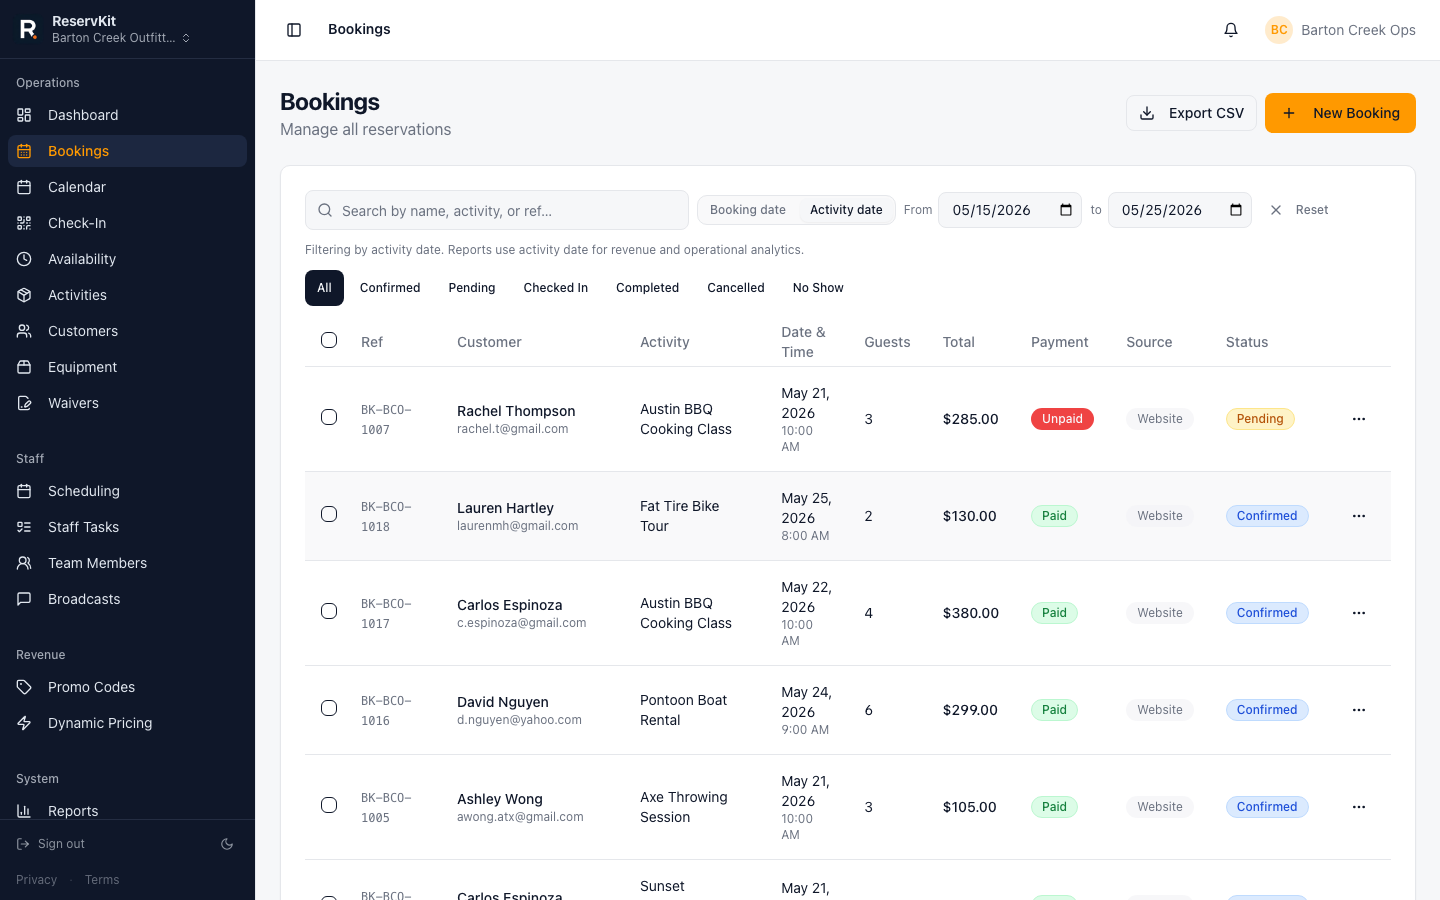
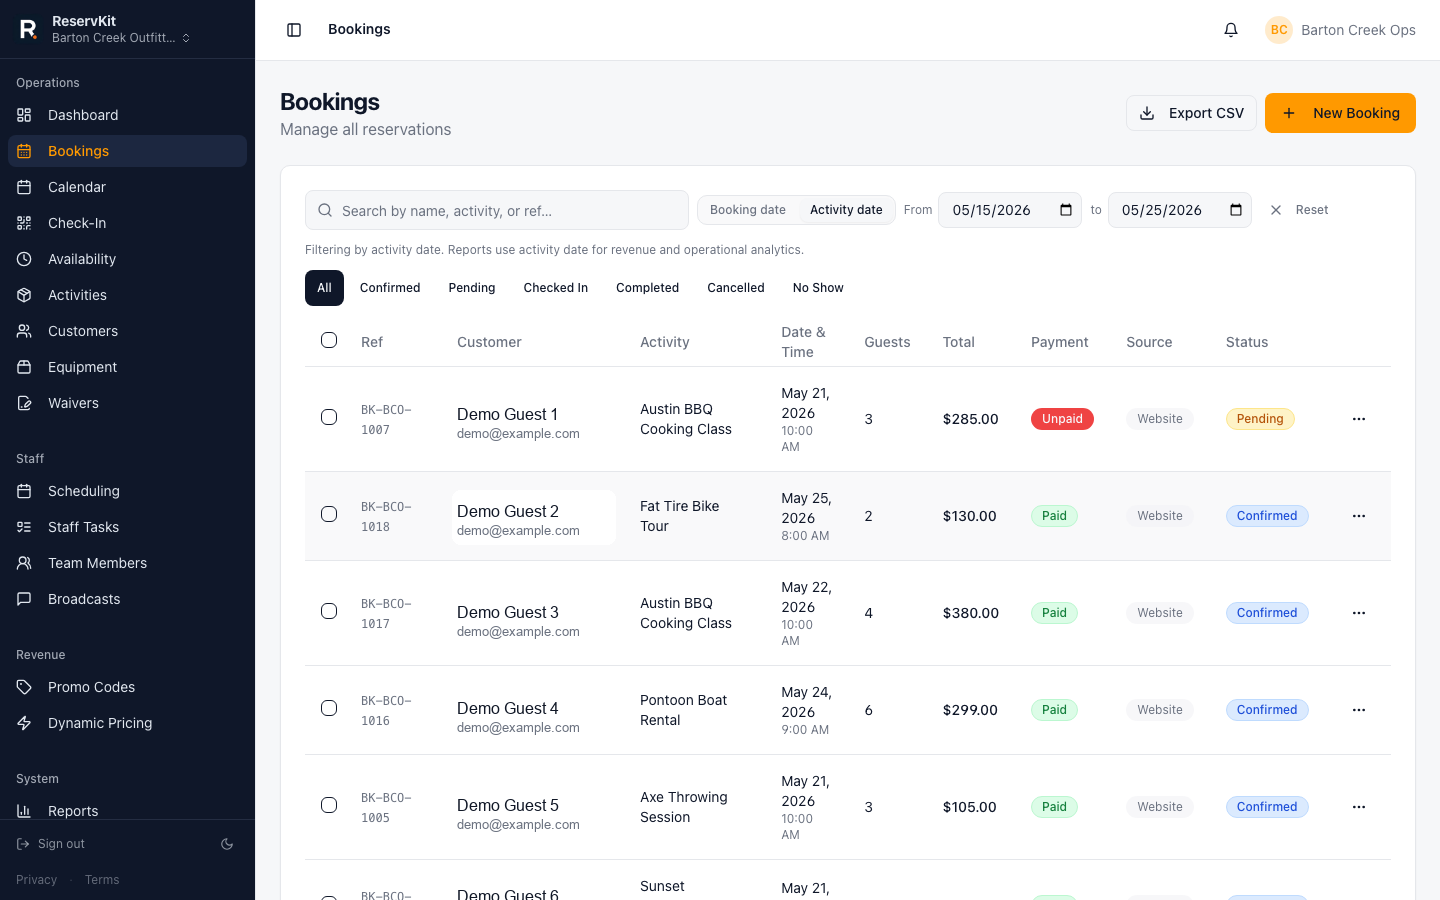
Polish marketing product media privacy

diff --git a/docs/PRODUCT_MEDIA_AUDIT_2026-07-25.md b/docs/PRODUCT_MEDIA_AUDIT_2026-07-25.md
@@ -8,12 +8,14 @@ Purpose: keep the public marketing site honest about product screenshots before 
 - The public booking, Activities, Bookings, Check-In, Waivers, and Reports captures are usable as representative product proof, but they should not be described as always-current live screenshots.
 - Homepage copy now says the screenshots are real ReservKit screens from configured workflows and representative operator screens.
 - `public/product-reports.png` was replaced on 2026-07-25 with a current cropped Reports workspace capture that removes support-only navigation and avoids customer-identifying table data.
+- `public/product-bookings-dashboard.png` and `public/product-checkin-manifest.png` were privacy-polished on 2026-08-02 after a batch review found realistic-looking customer names, emails, and phone numbers in the old captures. The visible rows now use demo guest/contact text only.
 
 ## Findings
 
 - `public/product-public-booking-live.png` shows a real public booking flow with configured activities. It is acceptable as a representative customer-flow screenshot.
-- `public/product-activities.png`, `public/product-bookings-dashboard.png`, `public/product-checkin-manifest.png`, and `public/product-waiver-status.png` show real operator UI and are acceptable for the current pre-launch site.
+- `public/product-activities.png`, `public/product-bookings-dashboard.png`, `public/product-checkin-manifest.png`, and `public/product-waiver-status.png` show real operator UI and are acceptable for the current public-signup site. Bookings and Check-In are privacy-polished with demo guest/contact values.
 - `public/product-reports.png` now shows the current Reports Overview tab, customer-tip separation, booking-fee language, activity-date window copy, and booking-income chart without exposing the support-only sidebar.
+- A fresh production Safari check against `ReservKit Test Org` confirmed the current Activities route is materially newer than the May Activities capture, but the live Test Org screen is too QA-fixture-heavy for public marketing. Keep the existing Activities capture until a clean controlled demo organization is available, then recapture Activities as a batch with public booking media.
 
 ## Replacement Standard
 
@@ -27,4 +29,4 @@ Future public screenshots should be captured from a controlled demo organization
 
 ## Next Media Slice
 
-Recommended next product-media task: review the remaining homepage product-tour images as a batch only if future app UI changes make them visibly stale. Do not capture from private owner/customer accounts.
+Recommended next product-media task: create or designate a clean controlled demo organization, then recapture the homepage product-tour images as a batch. Do not capture from private owner/customer accounts, and do not use QA-heavy Test Lab screens as public marketing assets unless the visible copy is intentionally demo-safe.
